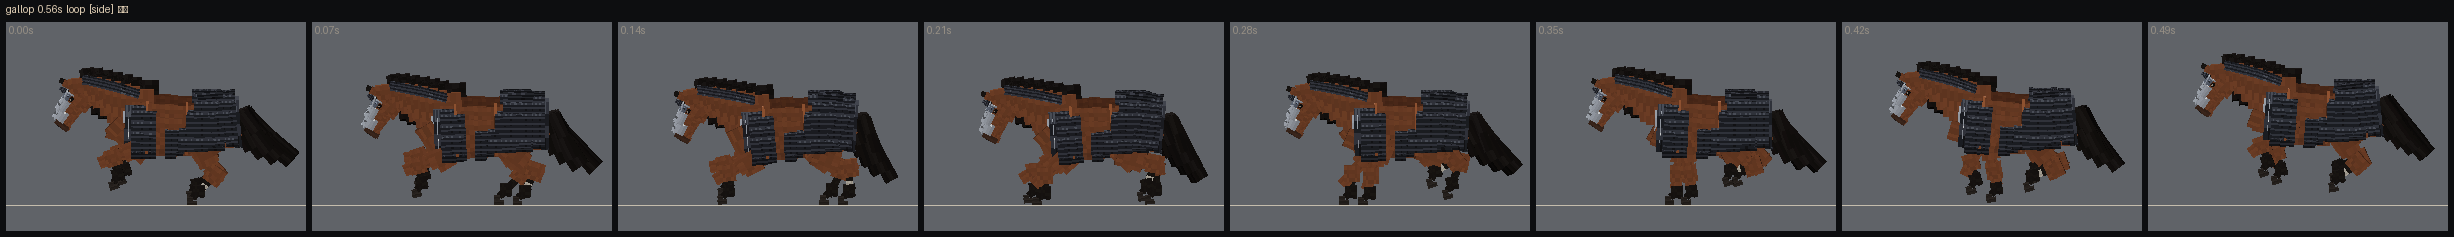
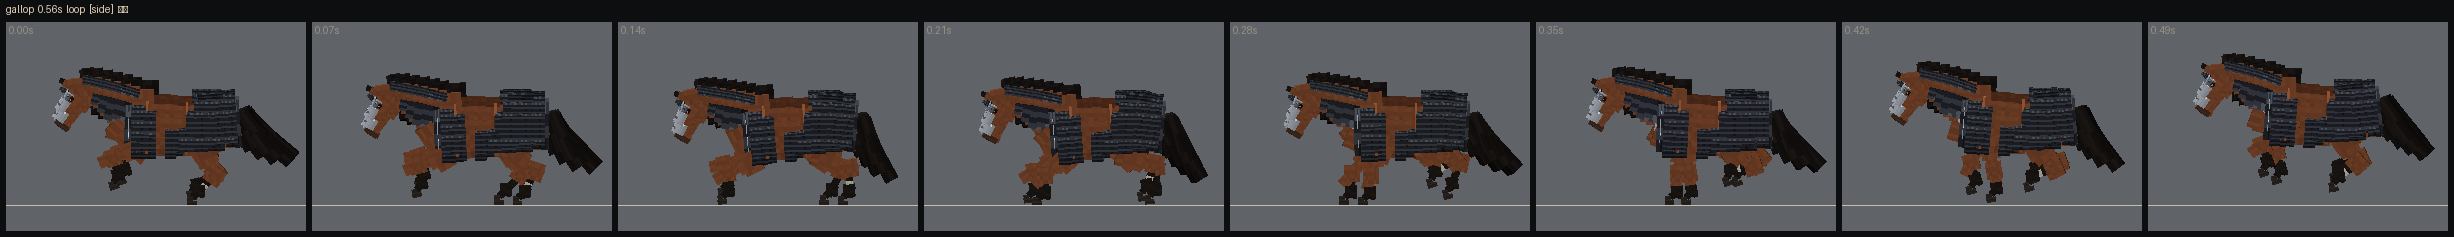
铁浮屠兜到底：全颈鸡颈 + 喉板，顶档覆盖 64% → 76%
"人马皆铠"得是个量得出来的数。先量缺口在哪，再动手。

## 36% 的缺口，四成在颈上

逐皮件量了一遍（`coverage` 的分件版）：

    颈 neck_1..7        占全身 31%  覆盖 45%  → 缺口 13pp   ← 最大的一块
    鞍位那一带           占全身 15%  覆盖 30%  → 缺口 10pp
    头的下半（腮 / 颌）  占全身  6%  覆盖  5%  → 缺口  6pp

鸡颈只盖颈脊与上侧，颈的一多半（侧面、喉）整片露着——而颈是整只马上**第二大**的一片。
铁浮屠的图里颈是被整段裹住的，我们这儿只搭了条脊。

## 全颈鸡颈：缰从两片之间穿出去

上片停在缰之上（`crinet_floor`），**下片从缰之下接着往下走**，一直做到颈皮的最深处；
缰从两片之间的缝里出来——真具装的鸡颈本来就是这么留缰口的。左右两条下片在颈底由
**喉板**封住颈底；下片一路接到鬐甲，在那儿和当胸接上，整条颈甲挂在身甲上。

**下片的横向另量**：颈自脊向下越来越宽（喉那一带比脊宽出小半个单位），照脊那一带的
半宽做，下片会整条陷进颈里。

## 三处量法的坑，都会让下片凭空消失

  · **颊带整根横跨好几节**。拿它最深的那个角当"这一节的缰有多深"，靠头两节量出来是
    11.4——比颈本身（6.8）还深，下片被压得一片不剩；而那个角其实在颈之外的腮上。
  · 反过来只数**落在区间里的角点**又会量成 0：颈皮是一节节带交叠的斜盒，最靠头那一节
    一个角点都没落进来。
    颈皮那边走二分：逐 z 问 `outer_at`（"这个高度上还有没有颈皮"），取一段里**最浅**的
    值（下片是条直带，按最深的给，浅的那头就垂到颈外面去了）。
    缰那边写了 `_clip_z`（把盒按 z 切开取切完之后的顶点：区间内的角点 + 棱与两个切面
    的交点，线性函数在凸多面体上的极值必在顶点，是精确解不是采样）。**但要如实说**：
    等查询范围连 `ext` 一起算、清空量加倍之后，退回"只数角点"在现在这套头颈几何上量
    出来一模一样（三体型下片都是 10 件、判据全干净）——它眼下是冗余的一道保险，不是
    撑着某条判据的支点。留着是因为它是这类查询的正确写法，但别当成有测试护着的东西。
  · 查询范围要**连 `ext` 外延一起算**：下片按 ext 向两头各探一截去和邻节搭上，探到的
    那截落在邻节的 z 上；只按 [za,zb] 问，最靠头那节探出去的部分正好切进颊带（0.03）。

## 喉板：两条理由错了一条半，如实改掉

先写的注释说它是"不连的话下片各自浮在颈侧、连通性报 6 片"。**拆掉重量了一遍：不是。**
连通性照样 4 片（下片自己经鬐甲接到当胸上），覆盖率只掉 0.2pp——因为覆盖率那条只在
皮件的**左右两个侧面**取样，朝下的颈底它根本没在采（和当初补后襟时那个 0.2pp 同一个
原因）。

它真正的用处只有一个，而且量不出来：**正面看过去，没有它颈底是一道敞着的槽**。所以
注释改成"这一件是看图定的，不是量出来的"。判据量不到的东西，别拿判据给它背书。

## 喉板的厚度：容忍深浅差的本钱

颈自鬐甲向头由粗变细再变粗，逐节按自己那段的最深处给，相邻两节能差出两三个单位，而
喉板只有一个板厚多高——两节的喉板在 y 上就此错开，同一条链上直接断掉（挽马实测裂
[…]

diff --git a/scripts/models/horse/gen_tack.py b/scripts/models/horse/gen_tack.py
@@ -1958,6 +1958,9 @@ class BardSpec:
     mat_plate_dark: str = ""
     # 当胸中央那一颗圆盾泡（"" = 不做）。诺曼那一路的当胸正中总有一颗，是它最好认的记号
     boss: str = ""
+    # 颈与头兜不兜到底。只盖颈脊的鸡颈把颈的一多半留在外面、只盖脸上半的面帘把腮与
+    # 颌整片留在外面——顶档 36% 的缺口里，颈占四成、头下半占一成半
+    full_wrap: bool = False
     # 面帘顶上竖起的一对缨（"" = 不做）。铁浮屠那张图里马额上就这么一对——整副甲
     # 一身近黑，**剪影上唯一能认出来的东西**就是它（同当年寄生要干的事，但这回长在
     # 头上、不改躯干轮廓，也就不会读成"屁股上插了根烟囱"）
@@ -2021,7 +2024,7 @@ BARDS: dict[str, BardSpec] = {
         key="heavy", label="重铁甲", blurb="十排淬黑鱼鳞层层压叠，白钢面甲全罩只留眼窗，额上一对铁缨。人马皆铠，马也最累。",
         mat="iron_black", mat_dark="iron_black_dark", mat_trim="iron_crude",
         mat_plate="steel_polish", mat_plate_dark="steel_polish_dark",
-        plume="iron_black", banded=False,
+        plume="iron_black", full_wrap=True, banded=False,
         th=0.024, hem=0.95, rows=10, cell=0.078, peytral=True, croup_plate=True,
         crinet=True, chamfron="full", skirt=0.105, spine=True, rear=True,
     ),
@@ -2544,14 +2547,105 @@ def part_bard_body(t: Tack, fit: Fit, spec: BardSpec) -> None:
                   mat=spec.mat_trim)
 
 
+def _clip_z(corners, z0: float, z1: float) -> list[Vec]:
+    """盒（可带旋转）被 z ∈ [z0,z1] 切下来那一块的**顶点**。
+
+    只数落在区间里的角点是不够的：颊带自耳后一路斜下到腮，整根盒横跨好几节颈——按角点
+    问，靠头那两节量出来的深度（11.4）比颈本身还深（6.8，那个角其实在颈之外的腮上），
+    下片整个被压没；而反过来只要盒的角点一个都没落进来，又会量成 0。切完之后的顶点
+    只有两类：**区间内的角点** + **棱与两个切面的交点**——线性函数在凸多面体上的极值
+    必在顶点，所以这是精确解，不是采样。
+
+    **诚实标注**：上面两种坏法是查询范围还没连 `ext` 外延一起算、清空量也还只有一份
+    `BARD_CLEAR` 时实测到的。那两处改掉之后，退回"只数角点"在现在这套头颈几何上
+    **量出来一模一样**（三个体型下片都是 10 件、判据全干净）——所以这个函数眼下是
+    冗余的一道保险，不是撑着某条判据的支点。留着是因为它是这类查询的正确写法，换一副
+    笼头就未必还等价；但别把它当成"有测试护着"的东西。
+    """
+    c = list(corners)
+    out = [p for p in c if z0 - 1e-9 <= p[2] <= z1 + 1e-9]
+    idx = ((0, 1), (0, 2), (0, 4), (1, 3), (1, 5), (2, 3), (2, 6), (3, 7),
+           (4, 5), (4, 6), (5, 7), (6, 7))
+    for i, j in idx:
+        a, b = c[i], c[j]
+        if abs(b[2] - a[2]) < 1e-12:
+            continue
+        for zc in (z0, z1):
+            s = (zc - a[2]) / (b[2] - a[2])
+            if -1e-9 <= s <= 1 + 1e-9:
+                out.append(tuple(a[k] + s * (b[k] - a[k]) for k in range(3)))
+    return out
+
+
+def rein_band_bottom(fit: Fit, za: float, zb: float) -> float:
+    """三档缰在 [za,zb] 这一段里最深到颈脊之下多远（单位）—— 全颈鸡颈的下片自它之下起。
+
+    与 `crinet_floor`（量缰的**上**缘）是同一把尺的两头：上片停在缰之上，下片从缰之下
+    接着往下走，缰从两片之间的缝里穿出去。真具装的鸡颈本来就是这么留缰口的。
+
+    **逐段问、而且不只问沿颈那条带**：靠头那两节上还压着颊带，它比缰线更深；只按
+    `rein_line_neck` 给一个全颈通用的数，最靠头那一节的下片正好切进颊带里（实测 0.03）。
+    """
+    P = fit.P
+    z0, z1 = min(za, zb), max(za, zb)
+    worst = 0.0
+    for tk in REINS:
+        for e in other_tack(fit, "rein", tk):
+            for c in _clip_z(_corners(e), z0, z1):
+                worst = max(worst, crest_y(P, c[2]) - c[1])
+    if worst <= 0.0:
+        raise SystemExit("量不到缰在这一段的位置 —— 全颈鸡颈的下片没有依据")
+    return worst + P.u(BARD_CLEAR) * 2.0
+
+
+def neck_floor(fit: Fit, za: float, zb: float) -> float:
+    """颈皮在这一段里到颈脊之下多远还有皮（单位）。全颈鸡颈下片的下缘由它定。
+
+    逐 z **二分**问 `NeckLine.outer_at`（"这个高度上还有没有颈皮"），不去数角点：
+    颈皮是一节节带交叠的斜盒，角点落不落在区间里全看运气——最靠头那一节一个角点都
+    没落进来，量出来是 0，下片直接不做了。
+
+    取一段里**最浅**的那个值：下片是一条直带，按最深的给，浅的那一头就垂到颈外面去了。
+    """
+    P, NL = fit.P, fit.neck
+    best = 1e9
+    for z in _zs(za, zb, 5):
+        lo, hi = 0.0, P.u(0.70)
+        for _ in range(16):
+            m = (lo + hi) / 2
+            if NL.outer_at(z, crest_y(P, z) - m, hair=False) is not None:
+                lo = m
+            else:
+                hi = m
+        best = min(best, lo)
+    return best
+
+
 def part_bard_crinet(t: Tack, fit: Fit, spec: BardSpec) -> None:
-    """鸡颈：逐颈骨一段，盖住颈脊与上侧。下缘由 `crinet_floor` 从缰反推。"""
+    """鸡颈：逐颈骨一段，盖住颈脊与上侧。下缘由 `crinet_floor` 从缰反推。
+
+    顶档还要**兜到喉**（`full_wrap`）：缰之下再接一片，一直做到颈皮的最深处。
+    铁浮屠是"人马皆铠"，颈是整只马上第二大的一片（占计入覆盖那些皮件的三成），
+    只盖颈脊的话它有一多半露在外面——量下来顶档的缺口有四成在颈上。
+    """
     P, NL = fit.P, fit.neck
     th, gap = P.u(spec.th), P.u(0.006)
     floor = crinet_floor(fit)
     if floor <= th * 1.6:
         raise SystemExit(f"缰把颈脊之下 {floor + P.u(BARD_CLEAR):.2f} 个单位全占了，鸡颈无处可放")
     seams = NL.seams
+    # 下片的**下缘先整条算好再限速**。逐节各按自己那一段的颈皮最深处给，相邻两节能差
+    # 出两三个单位（颈自鬐甲向头由粗变细再变粗），而喉板只有一个板厚多高——两节的喉板
+    # 在 y 上就此错开，同一条链上直接断掉（挽马实测裂 0.99）。限速之后一节该多深会顺着
+    # 邻节摊出去，摊成一条斜下去的线；取 `min` 而不是 `max`，保证没有一节垂到颈外面。
+    dep: list[float] = []
+    if spec.full_wrap:
+        raw = []
+        for k in range(len(NECK)):
+            z0, z1 = sorted((seams[k][2], seams[k + 1][2]))
+            raw.append(neck_floor(fit, z0, z1) - th)
+        cap = th * 2.4
+        dep = [min(v + cap * abs(k - j) for j, v in enumerate(raw)) for k in range(len(raw))]
     for k in range(len(NECK)):
         bone = NECK[k]
         za, zb = seams[k][2], seams[k + 1][2]  # za 靠鬐甲（大），zb 靠头（小）
@@ -2578,6 +2672,50 @@ def part_bard_crinet(t: Tack, fit: Fit, spec: BardSpec) -> None:
                          sgn * (x_out - d * 1.2), sgn * (x_out + d),
                          (ym_a, za), (ym_b, zb), floor,
                          mat=spec.mat, chain=(f"bard_crinet_{side}", k), ext=ext)
+        if spec.full_wrap:
+            # 缰之下再接一片，一直兜到颈皮最深处（喉侧）。缰从上下两片之间穿出去——
+            # 真具装的鸡颈也正是这么留缰口的。
+            # **不跟着上片一起量横向**：颈自脊向下越来越宽（喉那一带比脊宽出小半个
+            # 单位），照脊那一带的半宽做，下片会整条陷进颈里。
+            # 查询范围要**连外延一起算**：这一片按 `ext` 向两头各探出一截去和邻节
+            # 搭上，探到的那一截落在邻节的 z 上——只按 [za,zb] 问，最靠头那一节探出去
+            # 的部分正好切进颊带（实测 0.03）。
+            low0 = rein_band_bottom(fit, min(za, zb) - pad, max(za, zb) + pad)
+            lo_a = ya - low0
+            lo_b = yb - low0
+            # 收一个板厚（已并进 `dep`）：下片正好垂到颈皮最深处的话，低头吃草时颈折
+            # 下来，它比颈皮先撞上肩（挽马实测比静止姿多陷 2.03 > 1.87）。
+            h_low = max(dep[k] - low0, 0.0)
+            if h_low > th * 1.5:
+                lm_a, lm_b = lo_a - h_low * 0.5, lo_b - h_low * 0.5
+                x_low = NL.outer_span(za, lm_a, zb, lm_b, hair=False) + gap
+                for sgn, side in ((-1.0, "l"), (1.0, "r")):
+                    _strap_world(t, bone, f"bard_crinet_low_{k + 1}_{side}",
+                                 sgn * (x_low - d * 1.2), sgn * (x_low + d),
+                                 (lm_a, za), (lm_b, zb), h_low,
+                                 mat=spec.mat, chain=(f"bard_crinet_low_{side}", k), ext=ext)
+                # 喉板：把颈底封上。
+                #
+                # **这一件是看图定的，不是量出来的**——拆掉它重量了一遍：连通性照样是
+                # 4 片（下片自己经鬐甲接到当胸上），覆盖率只掉 0.2pp。原因是覆盖率那条
+                # 只在皮件的**左右两个侧面**取样，朝下的那一片它根本没在采（同当初补
+                # 后襟时那个 0.2pp）。可正面看过去，没有它颈底就是一道敞着的槽——
+                # 两条下片挂在颈两侧，中间通到底。判据量不到的东西，只能靠图。
+                # 喉板的交叠**另算**：它挂在颈底，离转心比脊上的盖远得多（脊那道交叠
+                # 是照盖自己的半径给的），照抄过来在挽马身上一屈伸就裂 0.99。
+                # 喉板给厚一点、下缘钉在颈底：厚度是它容忍相邻两节深浅差的全部本钱。
+                # 薄板 + 紧限速那一版链上只剩 0.06 的余量，而限速一松覆盖就掉——把厚度
+                # 加上去，限速才放得开（0.75 → 0.79 常马）。
+                h_t = d * 3.4
+                yt_a, yt_b = ya - dep[k] + h_t / 2 - d * 0.1, yb - dep[k] + h_t / 2 - d * 0.1
+                rt = max(math.hypot(x_low * 0.72, y - sm[1])
+                         for y, sm in ((yt_a, seams[k]), (yt_b, seams[k + 1])))
+                pt = seam_pad(rt, NECK_ROM)
+                et = (0.0 if k == 0 else pt, 0.0 if k == len(NECK) - 1 else pt)
+                _strap_world(t, bone, f"bard_crinet_throat_{k + 1}",
+                             -(x_low * 0.72), x_low * 0.72,
+                             (yt_a, za), (yt_b, zb), h_t,
+                             mat=spec.mat, chain=("bard_crinet_throat", k), ext=et)
         if spec.glow:
             _strap_world(t, bone, f"bard_crinet_glow_{k + 1}", -(x_out * 0.42), x_out * 0.42,
                          (ya + d * 1.15, za), (yb + d * 1.15, zb), d * 0.4,
@@ -2585,6 +2723,9 @@ def part_bard_crinet(t: Tack, fit: Fit, spec: BardSpec) -> None:
 
 
 # 面帘（头局部系，× 头长；与 `gen_pelt.part_head` / 笼头同一套坐标）
+# 腮 / 颌那一带的皮件：全罩面帘的下片按它们量（腮比颅壳宽，照颅壳做会整条陷进去）
+JAW_RE = re.compile(r"jaw_line_[lr]|jowl_[lr]|chin")
+CHAM_JAW_BACK = 0.12  # 全罩面帘的颌板后缘比面帘本体再往前收这么多（× 头长），给鸡颈让位
 CHAM_Z_BACK = -0.245  # 后缘：耳在 z[-0.215,-0.055]，压在耳上马会甩头（同项带的道理）
 CHAM_Z_HALF = -0.660  # 半面帘前缘：鼻梁中段停住
 CHAM_Z_FULL = -0.930  # 全面帘前缘：鼻孔（z[-1.045,-0.955]）之后停住，嘴还能张
@@ -2768,6 +2909,11 @@ def part_bard_chamfron(t: Tack, fit: Fit, spec: BardSpec) -> None:
                     cheek("side2", y_lo, y_out, za, ez0)
             else:
                 cheek("side", y_lo, y_out, za, zb)
+            # 试过再往下接一片颌板（罩住腮与颌）：**没留**。
+            # 它上头是**缰线**（骑手要拉的那条，面帘一压就拉不动了），下头是鸡颈的下片
+            # ——两边都不许碰，于是它既连不上面帘也连不上鸡颈，成了两块浮在腮上、什么
+            # 都不挂着的板（连通性判据当场报"实为 6 片"）。量下来它只多盖 0.6pp，
+            # 换两块浮板不值。头的下半就此留白，缺口写在 `MIN_COVER_TOP` 那儿。
         if spec.glow:
             # 灵纹：沿鼻梁中线一道，压在顶板外面。半面帘就这一处发光，与鸡颈那道连成一线
             Hd.strap(t, f"bard_cham_glow_{k + 1}", -xo * 0.22, xo * 0.22,
@@ -2815,7 +2961,15 @@ COVER_NEAR = 0.55  # 甲离皮多近算"盖住了"（单位）
 # 三条都是**跨装备**约束、都已经各有判据。所以这条只负责挡住"新一档其实没多盖"，
 # "新一档必须多配一件具装"由 `check_escalation` 挡，两条各管一头。
 MIN_COVER_STEP = 0.004
-MIN_COVER_TOP = 0.60  # 顶档的下限（腿与尾不在分母里，见 COVER_RE）
+# 顶档的下限（腿与尾不在分母里，见 COVER_RE）。铁浮屠是"人马皆铠"，这个数是它的
+# 核心指标，不是随手一个及格线：全颈鸡颈 + 喉板落地后实测 77.4 / 80.0 / 81.1%，
+# 下限跟着抬到 75%。
+#
+# **剩下那两成不是没做，是位置被别人占着**：量下来缺口的一大半是**鞍位那一带**
+# （鞍垫压在背上、鞍翼与镫革挂在肋侧，甲一进去跨装备判据当场就红）；再就是头的下半，
+# 那儿夹在缰线与鸡颈之间，做出来是两块什么都不挂着的浮板（见 `part_bard_chamfron`）。
+# 换句话说：**穿着鞍的马身上，77% 之外基本就是鞍自己占的位置。**
+MIN_COVER_TOP = 0.75
 
 
 COVER_N = 6  # 每块皮的侧面各取 N×N 个采样点
